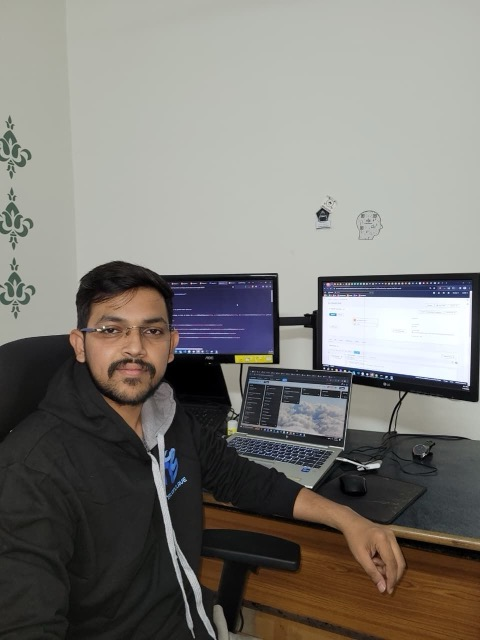
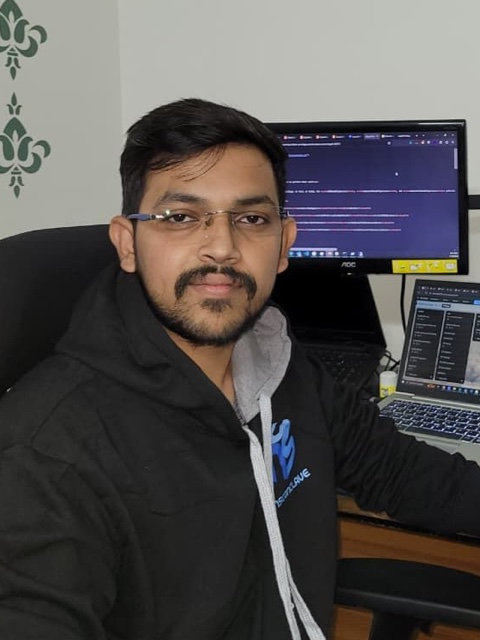
Ship readiness.sh in the guide, fix the portrait crop, refresh the theme
- readiness.sh now lives in labs/ and #/check links to it (students were told to run a file that never shipped)
- portrait was rendering 240x640 because the height attribute beat aspect-ratio; now a tight 3:4 crop with the face at 27% of frame
- theme refresh: gradient ground, teal accent rule on section heads, hover states, quick-facts row, tighter rhythm

diff --git a/assets/site.css b/assets/site.css
@@ -1,7 +1,8 @@
 /* byjaypatel.github.io - static, no dependencies, no external fonts */
 :root{
-  --bg:#0b0f12; --panel:#11171c; --line:#1e2a31; --ink:#e8eef2; --dim:#93a4ad;
-  --teal:#4fd1c5; --teal-dim:#2b7f78; --maxw:960px;
+  --bg:#0a0e11; --panel:#10161b; --panel2:#0d1317; --line:#1d272e; --line2:#27353d;
+  --ink:#e9eff3; --dim:#94a5ae; --dim2:#6d7f88;
+  --teal:#5eead4; --teal-dim:#2f8b81; --maxw:960px; --r:14px;
 }
 *{box-sizing:border-box}
 html{-webkit-text-size-adjust:100%}
@@ -9,71 +10,81 @@ body{
   margin:0; background:var(--bg); color:var(--ink);
   font:16px/1.65 -apple-system,BlinkMacSystemFont,"Segoe UI",Roboto,Helvetica,Arial,sans-serif;
   -webkit-font-smoothing:antialiased;
+  background-image:radial-gradient(900px 420px at 50% -140px, rgba(94,234,212,.075), transparent 70%);
+  background-repeat:no-repeat;
 }
-a{color:var(--teal); text-decoration:none; border-bottom:1px solid rgba(79,209,197,.35)}
+a{color:var(--teal); text-decoration:none; border-bottom:1px solid rgba(94,234,212,.3); transition:border-color .16s ease}
 a:hover{border-bottom-color:var(--teal)}
 .wrap{max-width:var(--maxw); margin:0 auto; padding:0 24px}
 
 /* top bar */
 .bar{display:flex; align-items:center; justify-content:space-between; gap:16px;
-     padding:22px 0 18px; border-bottom:1px solid var(--line)}
-.bar .who{font-weight:600; letter-spacing:.02em}
-.bar nav{display:flex; gap:18px; font-size:14px}
+     padding:20px 0 16px; border-bottom:1px solid var(--line)}
+.bar .who{font-weight:600; letter-spacing:.01em; font-size:15px}
+.bar nav{display:flex; gap:20px; font-size:13.5px}
 .bar nav a{border:0; color:var(--dim)}
 .bar nav a:hover,.bar nav a[aria-current]{color:var(--teal)}
 
 /* hero */
-.hero{display:grid; grid-template-columns:240px 1fr; gap:36px; align-items:start; padding:52px 0 8px}
-.portrait{width:100%; aspect-ratio:3/4; object-fit:cover; border-radius:14px;
-          border:1px solid var(--line); background:var(--panel); display:block}
-h1{margin:0 0 6px; font-size:38px; line-height:1.15; letter-spacing:-.02em; font-weight:650}
-.role{margin:0 0 18px; color:var(--teal); font-size:15px; letter-spacing:.01em}
-.lead{margin:0 0 14px; font-size:19px; line-height:1.5; color:#cfdae0; max-width:52ch}
-.body-text{margin:0; color:var(--dim); max-width:60ch}
+.hero{display:grid; grid-template-columns:260px 1fr; gap:40px; align-items:start; padding:40px 0 4px}
+.portrait{width:100%; height:auto; aspect-ratio:3/4; object-fit:cover; object-position:50% 42%;
+          border-radius:var(--r); border:1px solid var(--line2); background:var(--panel); display:block;
+          box-shadow:0 18px 40px -28px rgba(0,0,0,.9)}
+h1{margin:0 0 7px; font-size:40px; line-height:1.1; letter-spacing:-.025em; font-weight:660}
+.role{margin:0 0 16px; color:var(--teal); font-size:14.5px; letter-spacing:.015em}
+.lead{margin:0 0 16px; font-size:19px; line-height:1.5; color:#d3dee4; max-width:46ch}
+.body-text{margin:0; color:var(--dim); max-width:58ch; font-size:15.5px}
+.facts{list-style:none; display:flex; flex-wrap:wrap; gap:8px; margin:22px 0 0; padding:0}
+.facts li{font-size:12px; letter-spacing:.03em; color:var(--dim); background:var(--panel);
+          border:1px solid var(--line); border-radius:999px; padding:5px 11px; white-space:nowrap}
 
 /* sections */
-section{padding:34px 0 0}
-h2{font-size:12px; letter-spacing:.14em; text-transform:uppercase; color:var(--dim);
-   margin:0 0 16px; font-weight:600}
-.grid{display:grid; grid-template-columns:1fr 1fr; gap:14px}
-.card{background:var(--panel); border:1px solid var(--line); border-radius:12px; padding:18px 18px 16px}
-.card h3{margin:0 0 6px; font-size:15px; font-weight:600}
-.card p{margin:0; color:var(--dim); font-size:14.5px; line-height:1.55}
-.rows{list-style:none; margin:0; padding:0; display:grid; gap:11px}
-.rows li{position:relative; padding-left:20px; color:#c6d2d8; max-width:68ch}
-.rows li::before{content:""; position:absolute; left:0; top:.62em; width:8px; height:1px; background:var(--teal-dim)}
+section{padding:30px 0 0}
+h2{font-size:11.5px; letter-spacing:.16em; text-transform:uppercase; color:var(--dim);
+   margin:0 0 18px; font-weight:600; display:flex; align-items:center; gap:10px}
+h2::before{content:""; width:18px; height:1px; background:var(--teal-dim)}
+.grid{display:grid; grid-template-columns:1fr 1fr; gap:12px}
+.card{background:var(--panel); border:1px solid var(--line); border-radius:var(--r); padding:18px;
+      transition:border-color .18s ease, transform .18s ease}
+.card:hover{border-color:var(--line2); transform:translateY(-1px)}
+.card h3{margin:0 0 6px; font-size:15px; font-weight:600; letter-spacing:-.005em}
+.card p{margin:0; color:var(--dim); font-size:14.5px; line-height:1.58}
+.rows{list-style:none; margin:0; padding:0; display:grid; gap:12px}
+.rows li{position:relative; padding-left:18px; color:#c9d5db; max-width:66ch; font-size:15.5px}
+.rows li::before{content:""; position:absolute; left:0; top:.68em; width:7px; height:1px; background:var(--teal-dim)}
 .rows b{color:var(--ink); font-weight:600}
 
-footer{margin-top:56px; padding:22px 0 40px; border-top:1px solid var(--line);
-       color:#6f8089; font-size:13px; display:flex; justify-content:space-between; gap:14px; flex-wrap:wrap}
+footer{margin-top:52px; padding:20px 0 38px; border-top:1px solid var(--line);
+       color:var(--dim2); font-size:12.5px; display:flex; justify-content:space-between; gap:14px; flex-wrap:wrap}
 
 /* learnings */
-.learn-head{padding:46px 0 4px}
-.learn-head h1{font-size:32px}
+.learn-head{padding:40px 0 2px}
+.learn-head h1{font-size:33px}
 .track{display:grid; grid-template-columns:1fr auto; gap:18px; align-items:start;
-       background:var(--panel); border:1px solid var(--line); border-radius:14px;
-       padding:22px; margin-bottom:14px}
-.track.live{border-color:rgba(79,209,197,.35)}
-.track h3{margin:0 0 6px; font-size:18px; font-weight:620}
-.track p{margin:0; color:var(--dim); font-size:14.5px; max-width:60ch}
-.track .meta{display:flex; gap:8px; flex-wrap:wrap; margin-top:12px}
-.pill{font-size:11.5px; letter-spacing:.04em; color:var(--dim); border:1px solid var(--line);
+       background:var(--panel); border:1px solid var(--line); border-radius:var(--r);
+       padding:22px; margin-bottom:12px; transition:border-color .18s ease, transform .18s ease}
+.track.live{border-color:rgba(94,234,212,.32)}
+.track.live:hover{transform:translateY(-1px); border-color:rgba(94,234,212,.55)}
+.track h3{margin:0 0 6px; font-size:18px; font-weight:620; letter-spacing:-.01em}
+.track p{margin:0; color:var(--dim); font-size:14.5px; max-width:58ch}
+.track .meta{display:flex; gap:7px; flex-wrap:wrap; margin-top:13px}
+.pill{font-size:11px; letter-spacing:.05em; color:var(--dim); border:1px solid var(--line);
       border-radius:999px; padding:3px 9px}
-.pill.on{color:var(--teal); border-color:rgba(79,209,197,.4)}
-.track .go{align-self:center; font-size:14px; white-space:nowrap}
-.soon{color:#6f8089; font-size:12.5px; letter-spacing:.06em; text-transform:uppercase; align-self:center}
+.pill.on{color:var(--teal); border-color:rgba(94,234,212,.38)}
+.track .go{align-self:center; font-size:13.5px; white-space:nowrap}
+.soon{color:var(--dim2); font-size:11.5px; letter-spacing:.08em; text-transform:uppercase; align-self:center}
 
 /* 404 */
 .nf{padding:90px 0; text-align:center}
-.nf h1{font-size:64px; margin:0 0 10px; color:var(--teal)}
+.nf h1{font-size:60px; margin:0 0 10px; color:var(--teal)}
 
 @media (max-width:760px){
-  .hero{grid-template-columns:1fr; gap:22px; padding-top:34px}
-  .portrait{max-width:220px}
+  .hero{grid-template-columns:1fr; gap:24px; padding-top:28px}
+  .portrait{max-width:230px}
   h1{font-size:31px}
   .grid{grid-template-columns:1fr}
   .track{grid-template-columns:1fr}
   .track .go,.soon{justify-self:start}
-  footer{flex-direction:column}
+  footer{flex-direction:column; gap:6px}
 }
 @media (prefers-reduced-motion:reduce){*{transition:none!important; animation:none!important}}

diff --git a/learnings/android/assets/capstone.js b/learnings/android/assets/capstone.js
@@ -194,9 +194,10 @@
 
     var steps = el("div", "rd-steps");
     steps.innerHTML =
-      '<div class="rd-step"><span class="rd-n">1</span><div><b>Run the script</b>' +
+      '<div class="rd-step"><span class="rd-n">1</span><div><b>Get the script, then run it</b>' +
       '<pre class="rd-pre">sh readiness.sh &gt; my-setup.txt</pre>' +
-      "<span class=\"rd-dim\">It is in labs-offline/ next to this guide. It only reads: adb version, devices, getprop, pm list, settings get, ps, forward --list. No installs, no writes.</span></div></div>" +
+      "<span class=\"rd-dim\"><a href=\"labs/readiness.sh\" download>Download readiness.sh</a> (3 KB, shipped in <code>labs/</code> next to this guide). " +
+      "It only reads: adb version, devices, getprop, pm list, settings get, ps, forward --list. No installs, no writes.</span></div></div>" +
       '<div class="rd-step"><span class="rd-n">2</span><div><b>Paste my-setup.txt below</b>' +
       '<span class="rd-dim">Every line starts with ASW, so the parser is strict on purpose - a hand-edited transcript is not evidence.</span></div></div>' +
       '<div class="rd-step"><span class="rd-n">3</span><div><b>Fix the red, ignore the green</b>' +

diff --git a/index.html b/index.html
@@ -31,6 +31,12 @@
         <p class="body-text">Seven years across infrastructure, cloud and application security - the last four
           leading VAPT engagements for web, mobile and API products, and writing the reports that make the
           findings fixable.</p>
+        <ul class="facts">
+          <li>7+ years</li>
+          <li>VAPT lead</li>
+          <li>Web &middot; Mobile &middot; API</li>
+          <li>AI &amp; agent security</li>
+        </ul>
       </div>
     </div>
 
